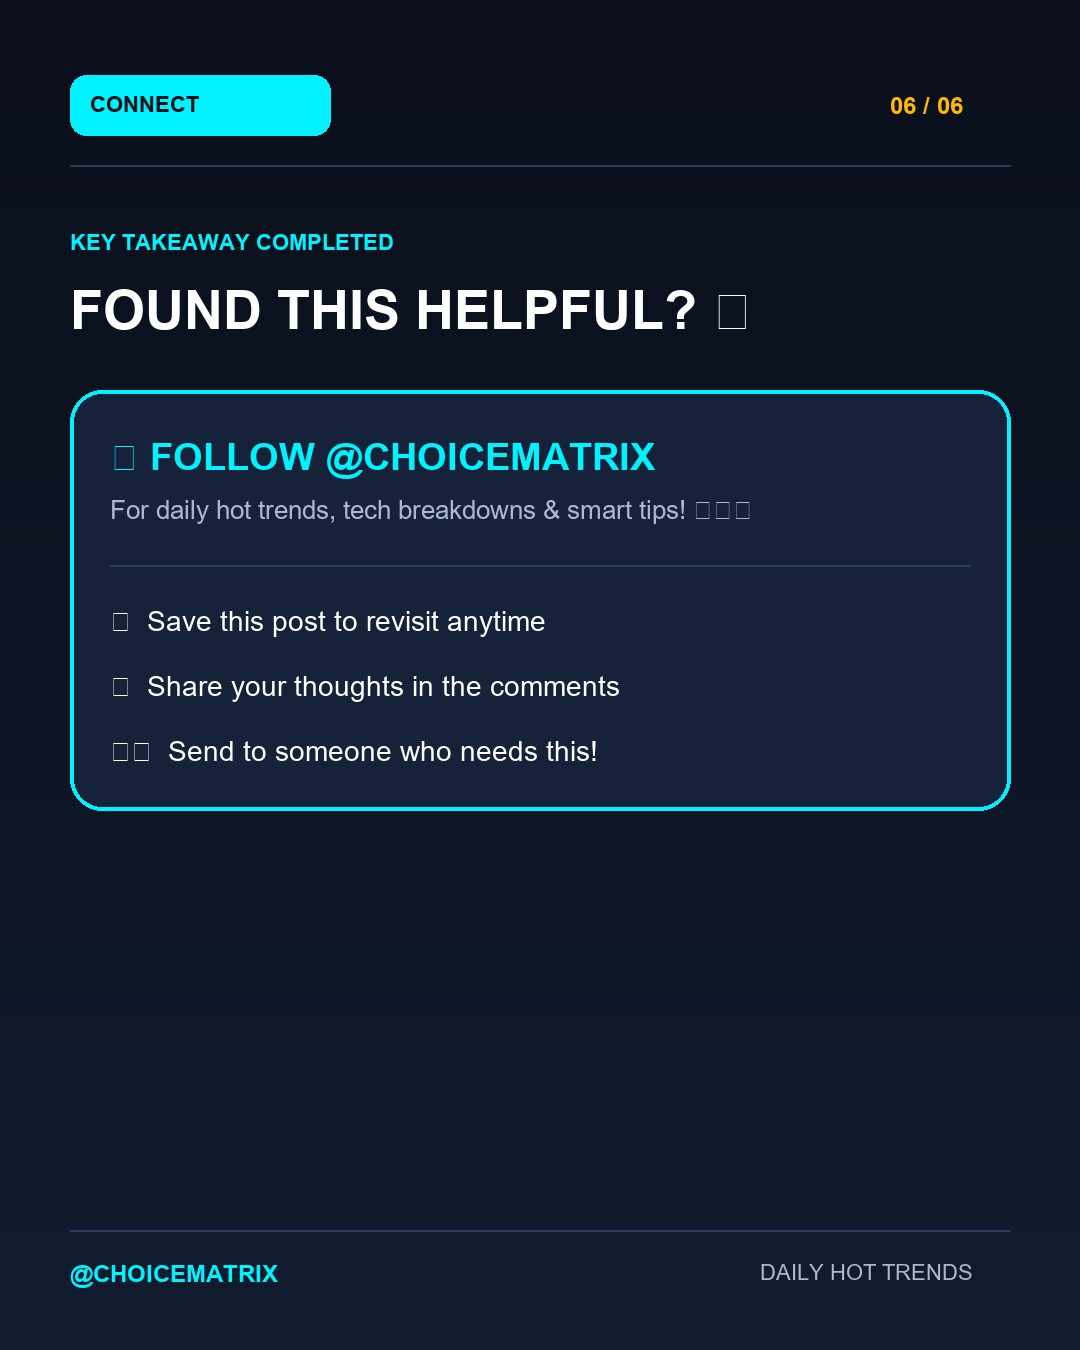
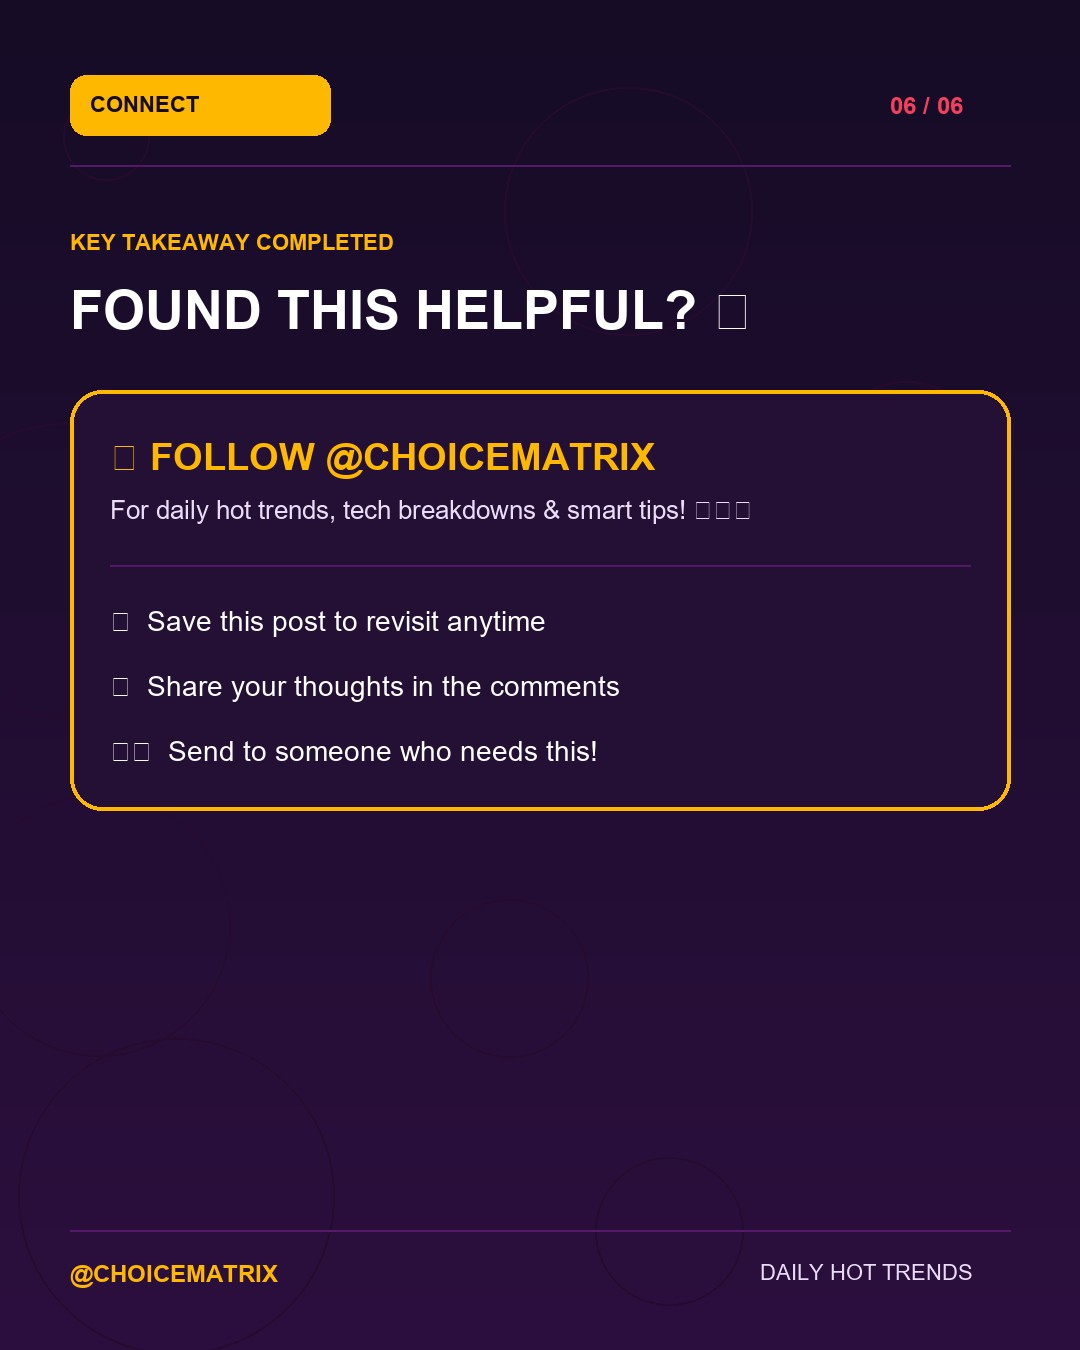
feat: enable multiple dynamic themes across all carousel slides

diff --git a/autopilot.py b/autopilot.py
@@ -406,7 +406,6 @@ THEMES = [
 def render_carousel_slides(date_key, revision, settings, item):
     """Render 5-6 high-res 1080x1350 carousel slides with daily rotating theme."""
     day = date.fromisoformat(date_key)
-    theme = THEMES[(day.toordinal() + revision - 1) % len(THEMES)]
     slides_data = item.get("slides") or []
     if not slides_data:
         # Fallback to single card representation in carousel format
@@ -422,7 +421,21 @@ def render_carousel_slides(date_key, revision, settings, item):
     W, H = 1080, 1350
     IMAGE_DIR.mkdir(parents=True, exist_ok=True)
 
-    for slide in slides_data:
+    for idx, slide in enumerate(slides_data):
+        slide_num = slide.get("slide_number", idx + 1)
+        if slide_num == total_slides:
+            # Special vibrant Outro / CTA Theme with gold & rose glow
+            theme = {
+                "name": "Radiant Outro",
+                "bg_top": (22, 12, 38), "bg_bot": (44, 15, 62), "card_bg": (36, 16, 52),
+                "accent": (255, 184, 0), "accent_secondary": (244, 63, 94),
+                "text_primary": (255, 255, 255), "text_secondary": (235, 220, 245), "border": (85, 25, 105)
+            }
+        else:
+            # Rotate distinct themes across slides so every slide has its own theme
+            theme_idx = (day.toordinal() + revision - 1 + idx) % len(THEMES)
+            theme = THEMES[theme_idx]
+
         image = Image.new("RGB", (W, H))
         draw = ImageDraw.Draw(image)
         # Background gradient
@@ -430,6 +443,14 @@ def render_carousel_slides(date_key, revision, settings, item):
             ratio = y / H
             c = tuple(int(theme["bg_top"][i]*(1-ratio) + theme["bg_bot"][i]*ratio) for i in range(3))
             draw.line((0, y, W, y), fill=c)
+
+        # Subtle geometric decorative accents matching slide theme
+        rnd = random.Random(int(hashlib.sha256(f"{date_key}-{revision}-{slide_num}-{theme['name']}".encode()).hexdigest()[:12], 16))
+        for _ in range(8):
+            rx, ry = rnd.randrange(0, W), rnd.randrange(0, H)
+            rad = rnd.randrange(40, 180)
+            alpha_color = tuple(min(255, int(v * 0.45)) for v in theme["border"])
+            draw.ellipse((rx-rad, ry-rad, rx+rad, ry+rad), outline=alpha_color, width=2)
 
         slide_num = slide.get("slide_number", 1)
         tag = slide.get("tag", "HOT TOPIC").upper()
